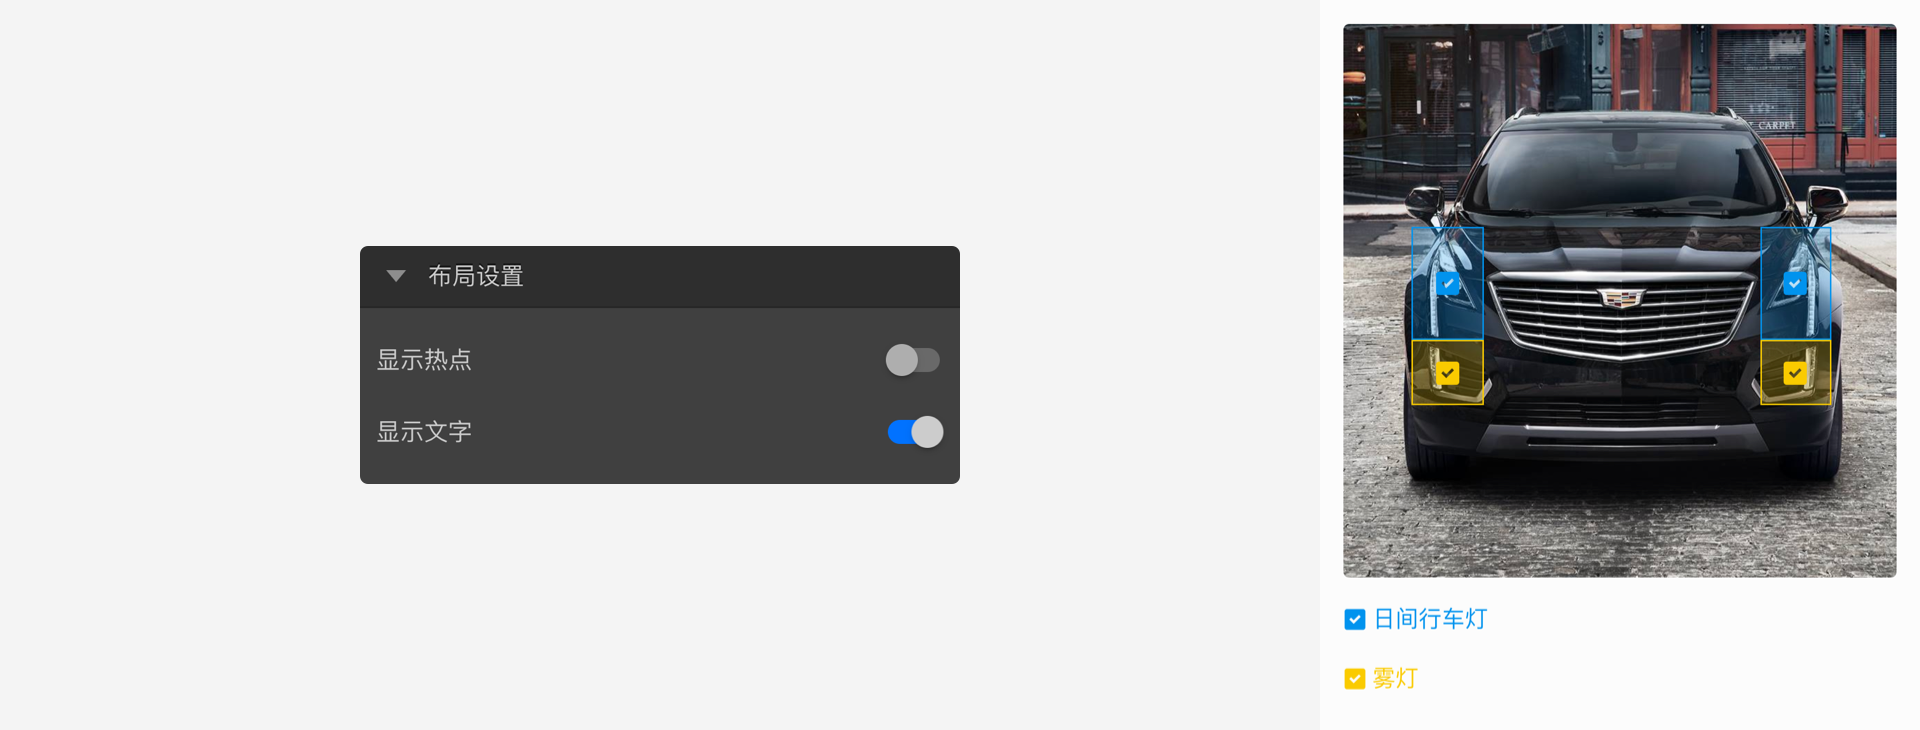
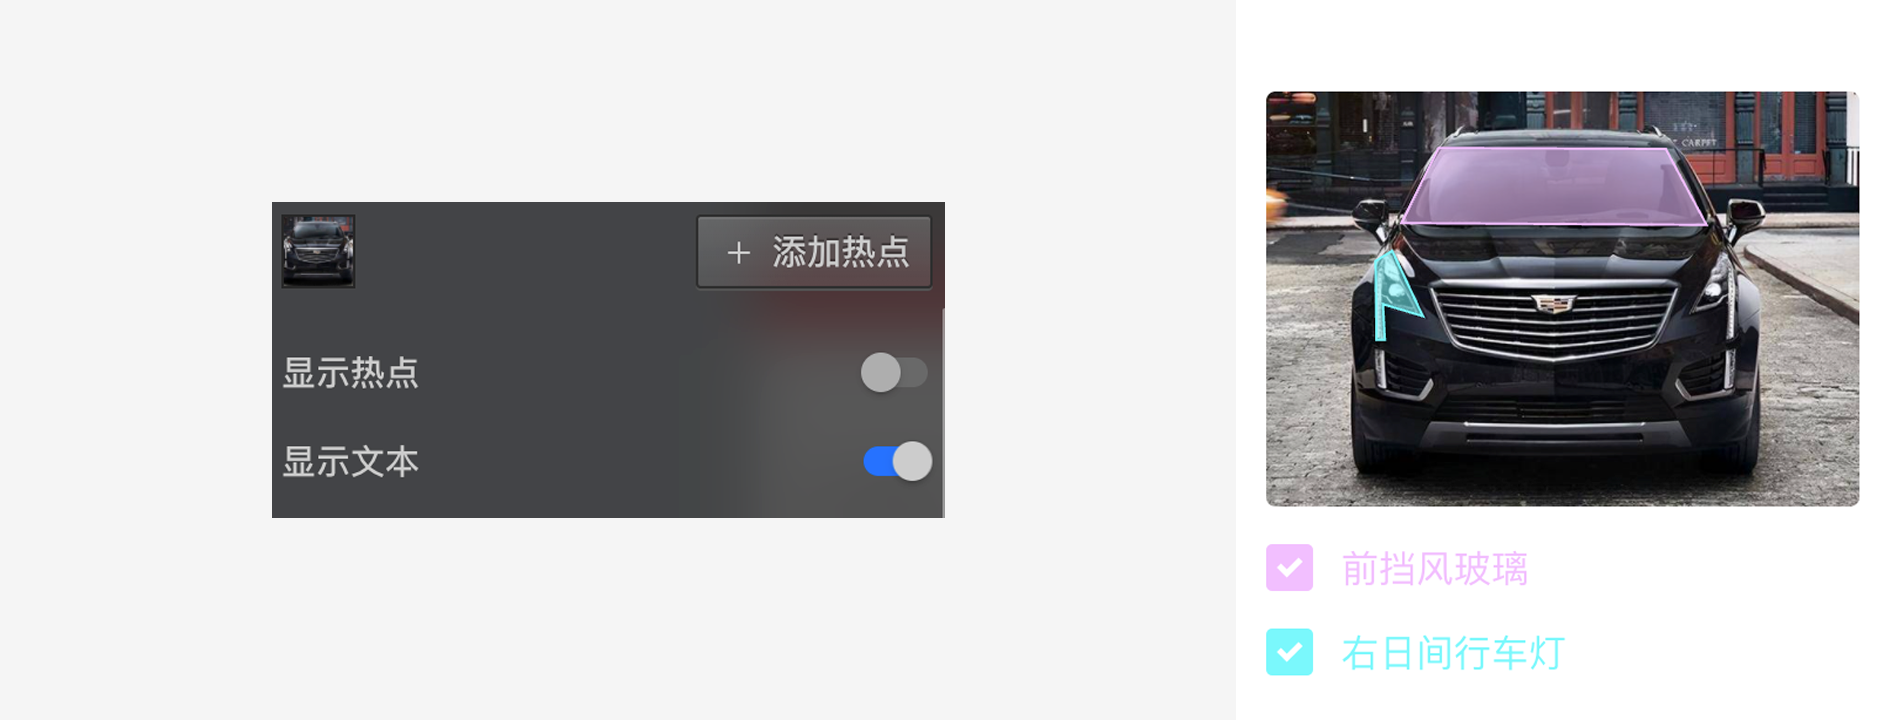
fix: hot-spot adjust

Changed region(s): [[0.6556, 0.0306, 0.9989, 0.9472], [0.1249, 0.275, 0.4995, 0.7333]]

diff --git a/doc/zh-cn/10nodes/questionnaireNodes/11hot-spot.md b/doc/zh-cn/10nodes/questionnaireNodes/11hot-spot.md
@@ -1,6 +1,6 @@
 ---
   index: 11
-  tags: [图片热点题, 选项设置, 布局设置, 显示热点, 显示文字, 题型节点]
+  tags: [图片热点题, 选项设置, 布局设置, 显示热点, 显示文本, 题型节点]
   summary: 图片热点题的使用说明。
 
 
@@ -19,19 +19,18 @@
 
 ## 选项设置
 
-点击==编辑选项==按钮，打开==热点设置==对话框。图片热点题需要一张背景图片，点击对话框右上角的==图片选择器==添加一张背景图片。随后，点击==添加热点==按钮在背景图片上添加一个正方形热点，拖拽热点框到目标位置，点击==确定==完成设置。
+点击==设置热点==按钮，打开==热点设置==对话框。图片热点题需要一张背景图片，点击对话框右上角的==图片选择器==添加一张背景图片。随后，点击==添加热点==按钮在背景图片上添加一个正方形热点，拖拽热点框到目标位置，可点击边线添加拖拽点，进行多边形选择，==确定==完成设置。
 
 <img src='../assets/questionnaireNodes/11hot-spot/popup.png'>
 
-图片热点题支持添加多个热点框，每个热点框就是一个选项。多个热点框之间不能重叠。答题过程中，被访者点中热点框就代表选中该选项。
+图片热点题支持添加多个热点框，每个热点框就是一个选项。答题过程中，被访者点中热点框就代表选中该选项。
 
-## 布局设置
 
 + 显示热点：开启后，图片上会显示热点所在区域，提示被访者进行选择。
 
 <img src='../assets/questionnaireNodes/11hot-spot/show.png'>
 
-+ 显示文字：开启后，被访者选到热点时，会在图片下方显示热点对应的选项文字。
++ 显示文本：开启后，被访者选到热点时，会在图片下方显示热点对应的选项文本。
 
 <img src='../assets/questionnaireNodes/11hot-spot/label.png'>
 
